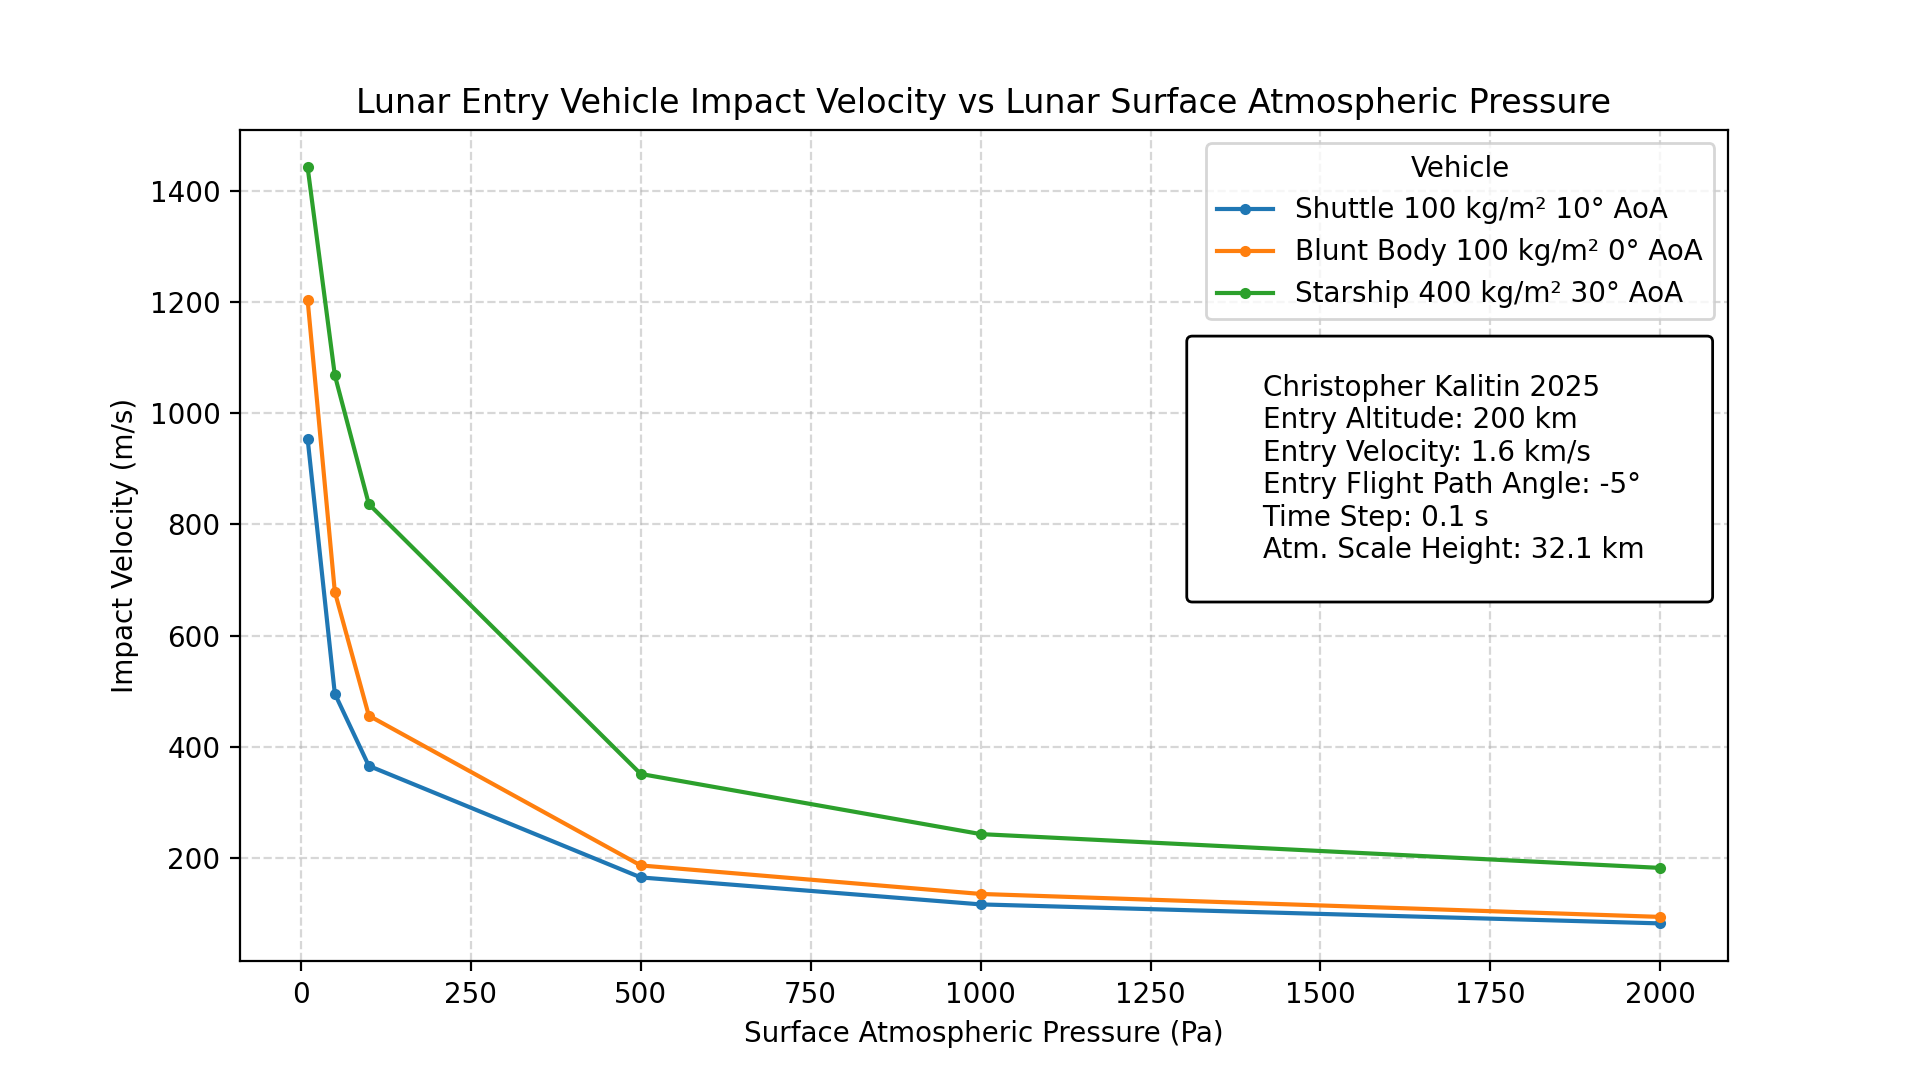
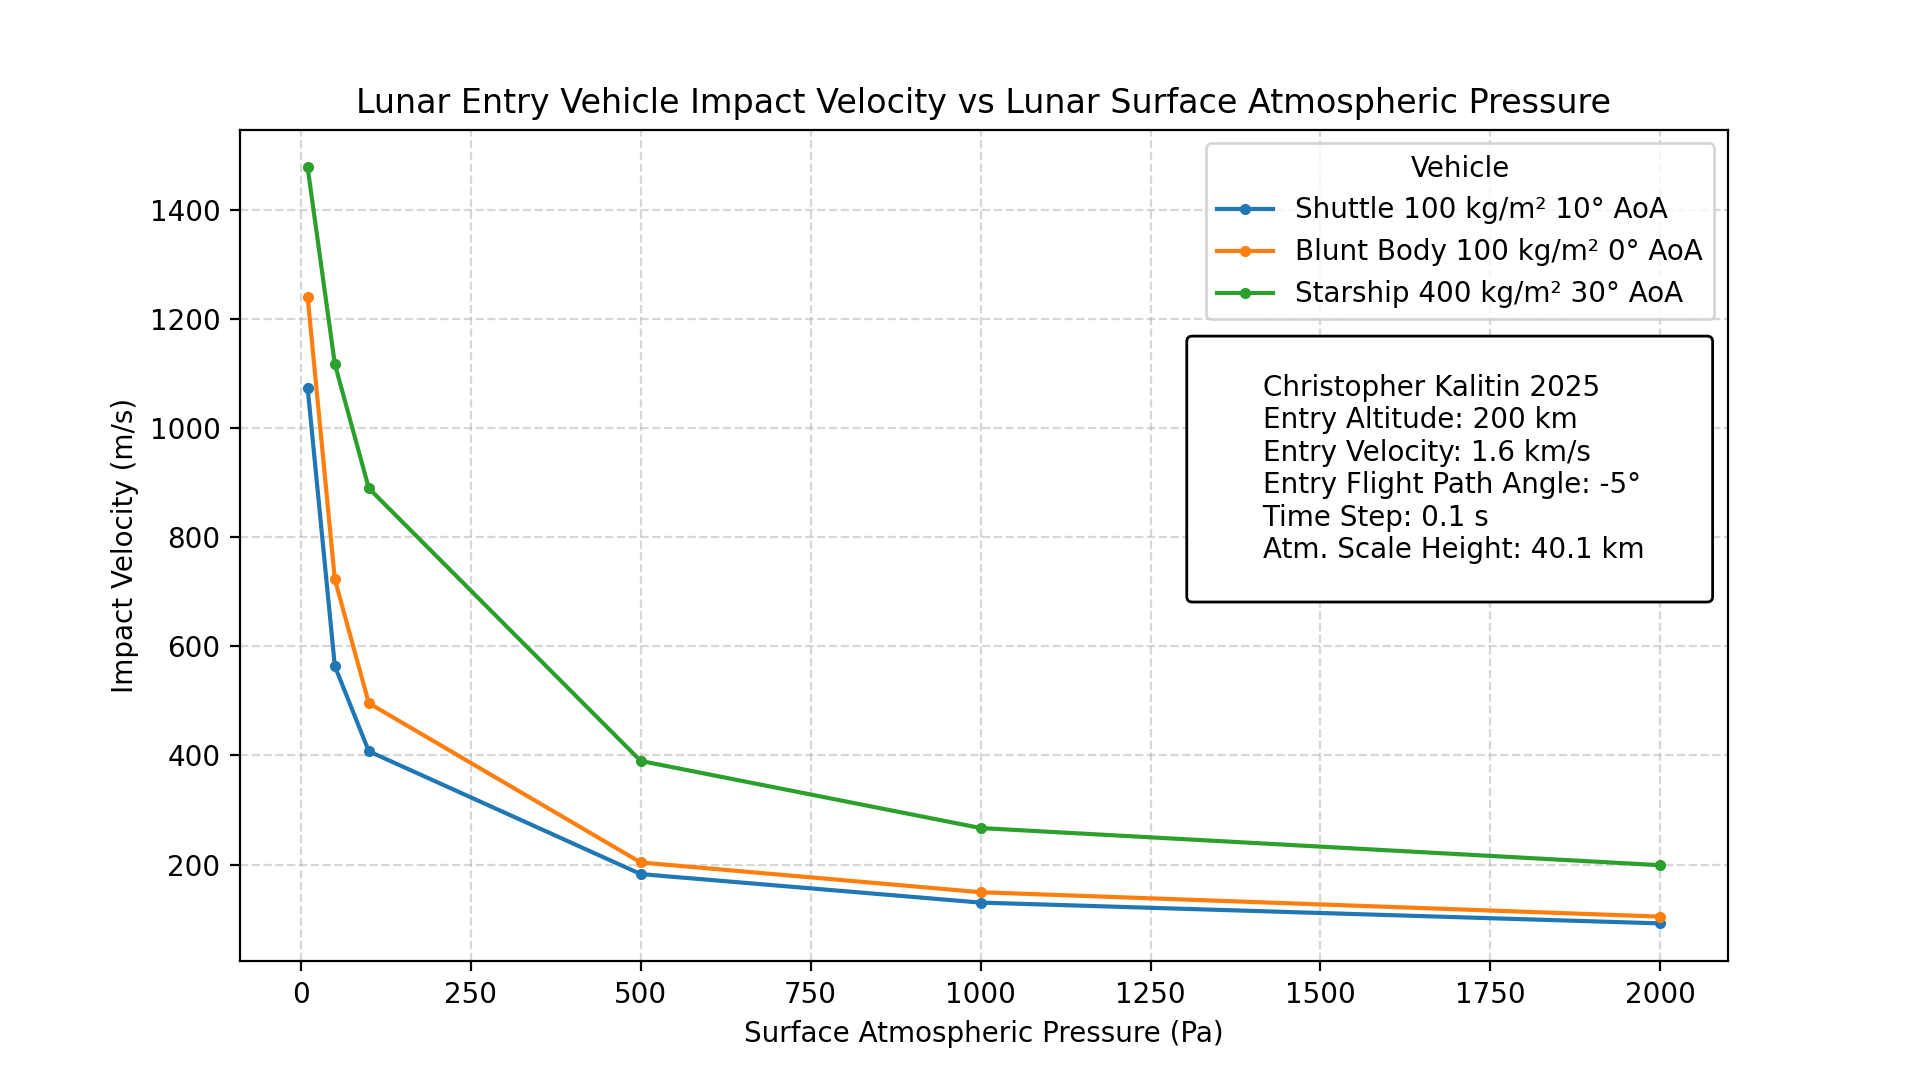
lets see

diff --git a/_posts/2025-08-11-optimal-lunar-atmosphere.md b/_posts/2025-08-11-optimal-lunar-atmosphere.md
@@ -10,11 +10,8 @@ author:
 word_count: 1000
 ---
 <head>
-    <meta property="og:image" content="{{site.url}}/assets/images/polar-mars-sim/Perseverance_Polar_xy.png">
+    <meta property="og:image" content="{{site.url}}/assets/images/optimal-lunar-atmosphere/impact_velocity_vs_atm_t0.1_linear.png">
 </head>
-
-"It's a very very straight forward calculation any well motivated middle schooler could do."
-- [Casey Handmer, unrelated](https://youtu.be/prUXHpvsIPg?si=wRYjIBMgZcb3r01d&t=589)
 
 https://youtu.be/prUXHpvsIPg?si=j5JJXZ2TA5xpSea_&t=2012
 
@@ -72,3 +69,73 @@ Now I see the Moon rising over the horizon, I keep track of it, mention that
 
 Ok that scale height makes a HUGE difference
 
+# Notes
+
+Notes:
+ - 250 K assumption
+ - 40 g/mol for Moon (Assuming skewed to O2)
+ - Mention composition of regolith
+ - Mention the Moon's existing atmosphere and exhaust from landers
+ - Shuttle stats
+ - Quick note on pressure vs height might not be linear (also temp)
+
+Conclusions:
+ - Mars' Atmospheric Pressure is Perfect
+ - Moon you can go to around 500, maybe 1000 if you want to go extra
+ - Lunar Atmosphere's Scale Height is insane
+
+First cover the simulation
+Then cover scale height
+Then cover the final chart and Mars' atmosphere being perfectly sized
+
+Also show a simulation with a multiple skip reentry!!!
+
+# Blog Post
+
+"It's a very very straight forward calculation any well motivated middle schooler could do."  
+\- [Casey Handmer, unrelated](https://youtu.be/prUXHpvsIPg?si=wRYjIBMgZcb3r01d&t=589)
+
+![Image](/assets/images/optimal-lunar-atmosphere/impact_velocity_vs_atm_t0.1_linear.png){:height="600"}  
+*The final result, impact velocity vs. lunar surface atmospheric pressure for a few reentry vehicles.*
+
+Three hours ago I was nerdsnipped by this [podcast with Casey Handmer](https://youtu.be/prUXHpvsIPg?si=j5JJXZ2TA5xpSea_&t=2012) in which he starts gushing about how beautiful a Lunar atmosphere would be. The effect this lunar atmosphere would have on spacecraft landing on the Moon was brought up and I decided to adapt my [Martian entry vehicle](https://ckalitin.github.io/space/2025/05/13/martian-atmosphere-model.html) model to how small you could make a lunar atmosphere while getting most of the benefits of atmospheric decelleration on landing.
+
+All code is [available here](https://github.com/CKalitin/Martian-Ballistic-Modelling/blob/master/Project/lunar_atmosphere.py).
+
+### </b> Atmospheric Parameters</b>
+
+The Moon's atmosphere is currently weighs about 25 tonnes in total, for a surface atmospheric pressure of 0.3 nanopascals. This is a small enough atmosphere that when the Apollo spacecraft fired their engines around the Moon, they increased the mass of the Moon's atmosphere by double digit percentages.
+
+<b>Molar Mass</b>  
+Casey Handmer's quick method for creating a lunar atmosphere involves melting the top 30 feet of the lunar regolith and letting the oxygen escape into the atmosphere. I'm not smart enough to conceive of a method for terraforming the Moon myself so my assumption was a mostly diatomic oxygen atmosphere.
+
+Depending on the region of the Moon you're in, [Lunar regolith is composed](https://www.linkedin.com/pulse/chemistry-moon-ganeshkumar-palanisamy/) of 42% oxygen, 21% silicon, 13% iron, 8% calcium, 7% aluminum, 6% magnesium, and 3% other trace elements. This mainly comes in the form of silicon dioxide, aluminum oxide, iron oxide. So, it appears to be a safe assumption that the majority of the gas in a terraformed Moon's atmosphere would be oxygen.
+
+Hence, I assumed a lunar atmosphere mean molar mass of 32g/mol, the same as diatomic oxygen. For reference, Earth is 29 g/mol (since N2 is 28g/mol) and Mars is 43 g/mol (mostly CO2 at 43g/mol).
+
+<b>Temperature</b>  
+Next I assumed a uniform average temperature of 250 K. Mean surface temperature on Earth is 288 K and on Mars it's 210 K. With the Moon closer to the sun than Mars, I felt (Felt!) 250 K was a fair number. This is a one night project, I'm fine with theoretical +/- 25% error bars.
+
+<b>Atmosphere Scale Height</b>  
+
+![Image](/assets/images/optimal-lunar-atmosphere/scale_atm.png){:height="100"}  
+*Scale height equation for an arbitrary body.*
+
+With temperature and molar mass we can find the scale height of our lunar atmosphere. Scale height is the height at which the atmospheric pressure decreases by a factor of e (ie. ~37%).
+
+Earth's scale height is about 8.5 km, Mars' is about 11 km, and Titan's is ~15-50 km. We see above that scale height is a function of gravitational acceleration, so we expect a far lower value for the Moon.
+
+Using the numbers above (250 K, 32 g/mol, 1.62 m/s^2), we find a lunar scale height of 40.1 km. This is significantly larger than Earth's and Mars', indictating a lunar atmosphere that falls off more slowly with altitude.
+
+![Image](/assets/images/optimal-lunar-atmosphere/pressures.png){:height="600"}  
+*This illustrates how slowly our lunar atmosphere falls off.*
+
+To illustrate how extreme a scale height of 40.1 km is, above is a graph showing atmospheric pressure vs. altitude for the Earth, Mars, and an example 100 Pa Lunar atmosphere. Notice how steep the lines are for the Earth and Mars, and how shallow the line is for the Lunar atmosphere.
+
+The Karman line defines the edge of space on Earth, this fairly arbitrary boundary is located at an altitude of 100 km. At this altitude, Earth's atmospheric pressure is a little under a single pascal (0.79 Pa). Note that this value is not based on experimental data, and instead uses this formula: p(h) = p0 * exp(-h/H), where p0 is the surface pressure and H is the scale height.
+
+We can use the definition of space beginning at the altitude at which atmospheric pressure is 1 Pa. Using this definition, space begins 72 km above Mars' surface. On our Moon, space would begin 185 km above the surface. That's what an extremely low gravity gets you! Especially for a body the size of the Moon!
+
+To further illustrate just how far the Moon's atmosphere would extend, we can consider the International Space Station. The ISS orbits the Earth at an altitude of about 400 km and without boosts it would reorbit due to drag in about one year. At this altitude atmosphereic pressure is 0.37 femtopascals (using the formula above, not experimental data). To reach the same pressure if the ISS was around our 100 Pa Moon, it would have to be 1,610 km from the surface.
+
+<b>Mars' Atmosphere is Perfectly Sized</b>
